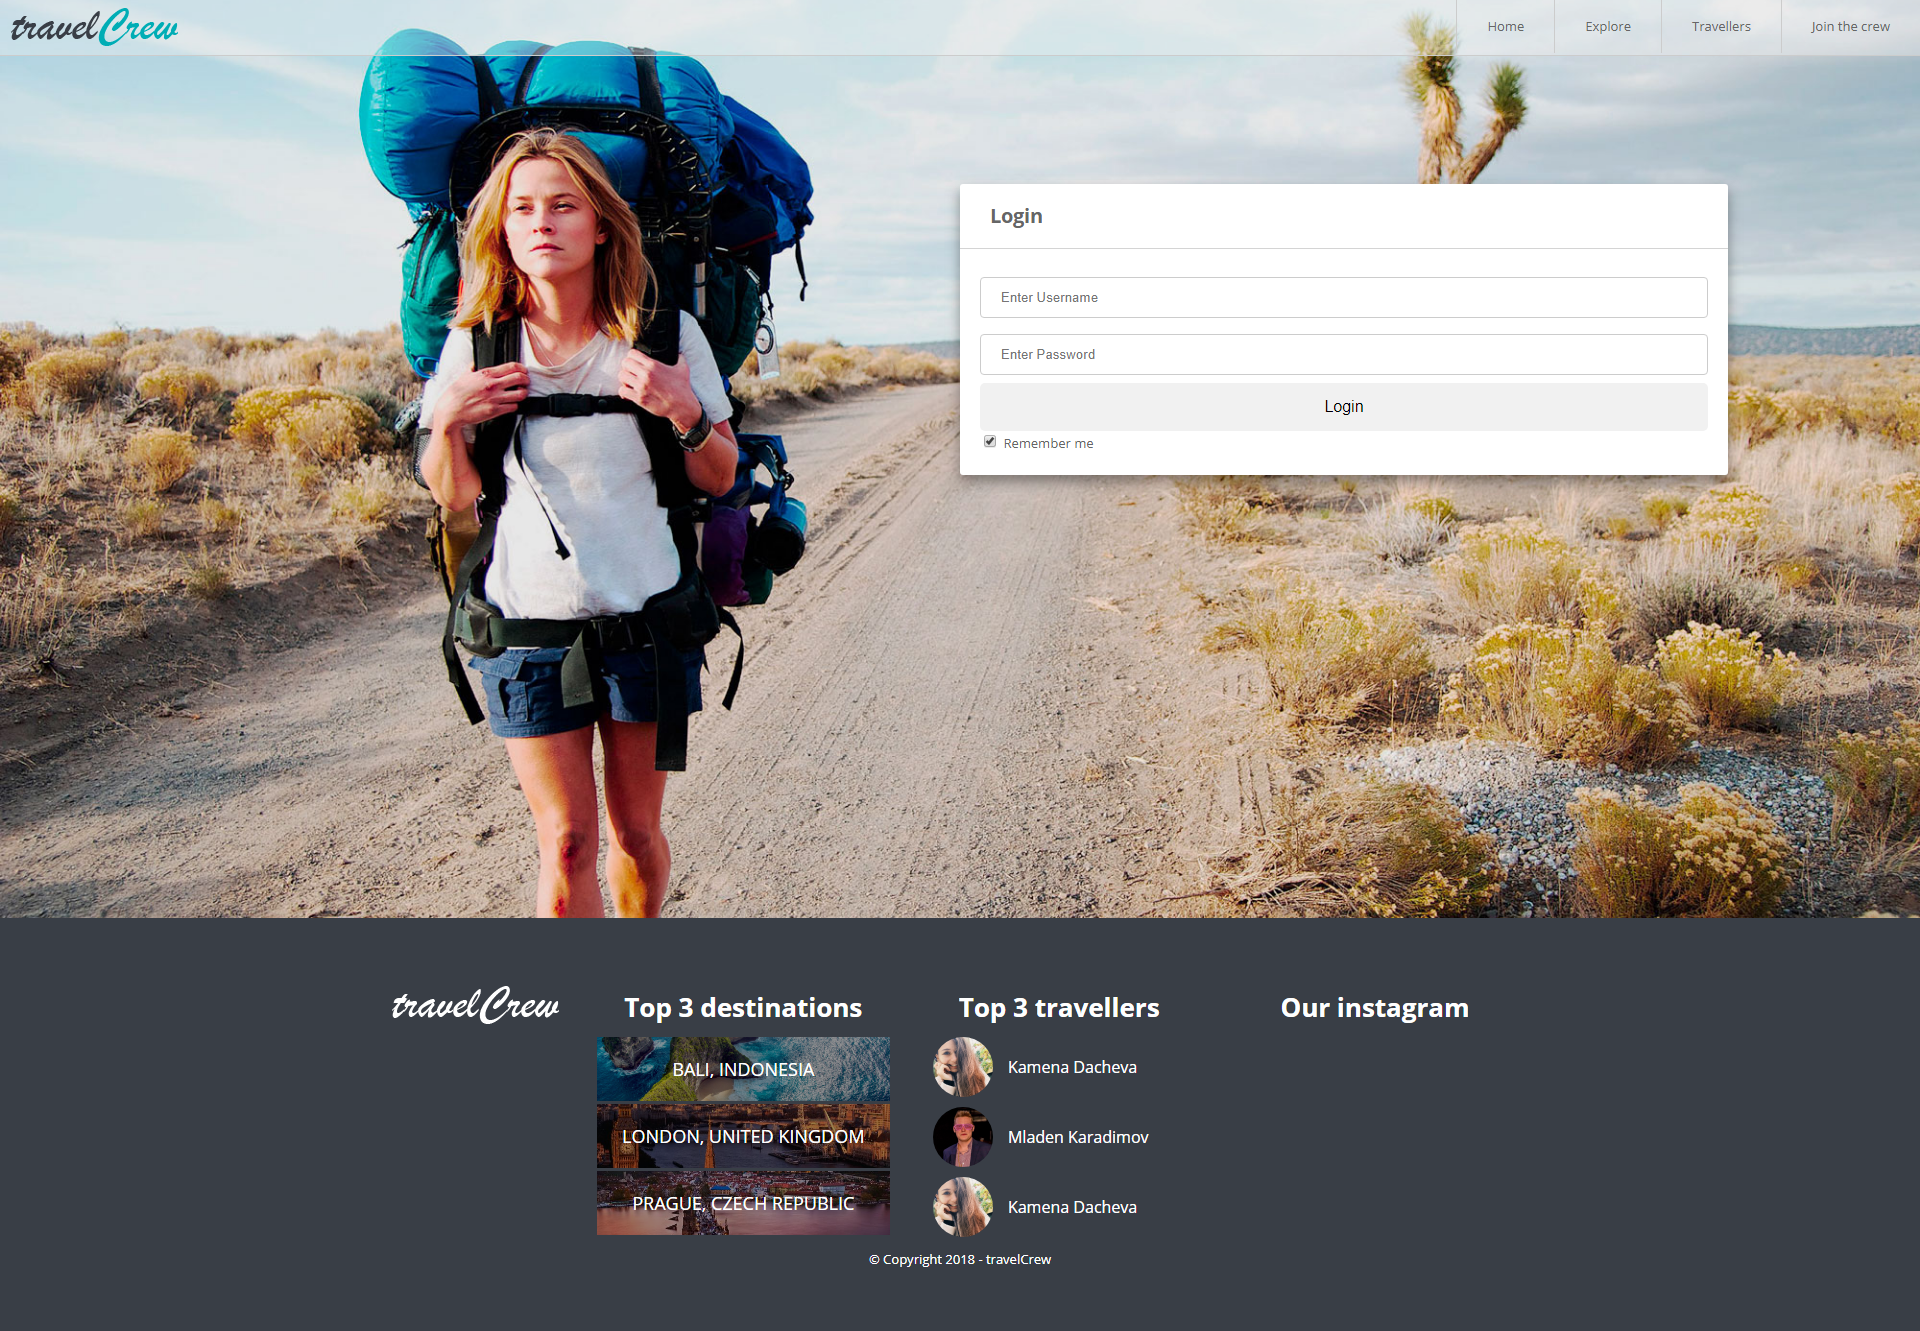
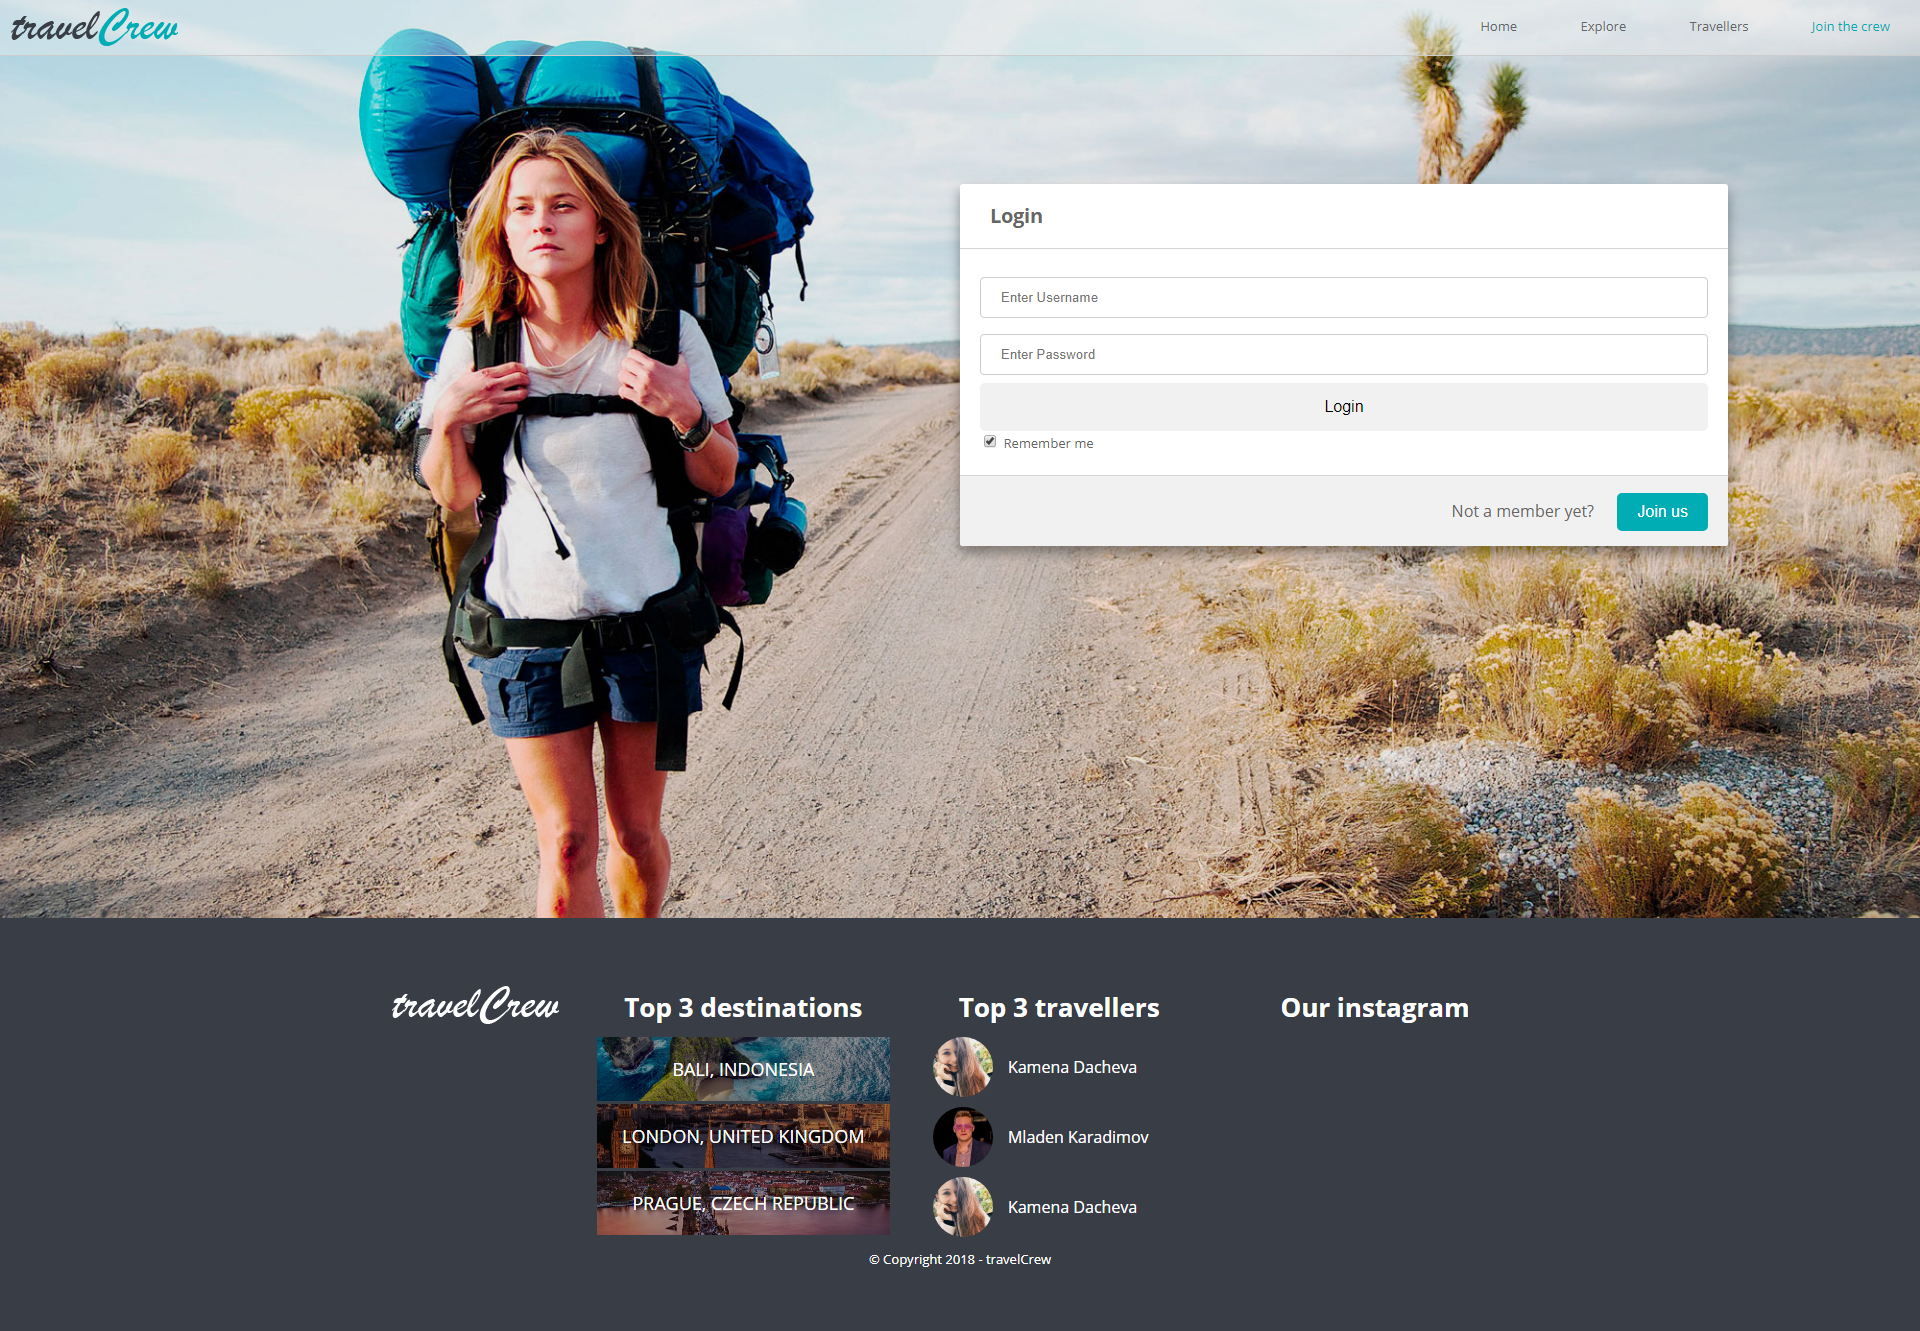
Update the header and the login/register page

Changed region(s): [[0.5, 0.3388, 0.9062, 0.4313], [0.875, 0.0, 0.9062, 0.0308], [0.8125, 0.0, 0.8438, 0.0308]]

diff --git a/login.html b/login.html
@@ -26,7 +26,7 @@
 						<li><a href="index.html">Home</a></li>
 						<li><a href="explore.html">Explore</a></li>
 						<li><a href="travellers.html">Travellers</a></li>
-						<li><a href="login.html">Join the crew</a></li>
+						<li class="active"><a href="login.html">Join the crew</a></li>
 					</ul>
 				</div>
 			</div>
@@ -37,15 +37,34 @@
 		<section class="full-screen">
 			<div class="background-image-holder" style="background: url(&quot;img/2.jpg&quot;);">
                 <img alt="image" class="background-image" src="img/2.jpg" style="display: none;">
-	            	<div class="login-form">
+	            	<div class="login-register-form" id="login-form">
 	            		<h1>Login</h1>
-		                <form action="/action_page.php">
+		                <form id="login-form" action="/action_page.php">
 						    <input id="username" type="text" placeholder="Enter Username" name="uname" required>
 						    <input id="password" type="password" placeholder="Enter Password" name="psw" required>
 						        
 						    <button type="submit">Login</button>
 						    <input type="checkbox" checked="checked"> Remember me
 						</form>
+						<div class="form-bottom">
+							<p>Not a member yet?</p>
+							<button class="light-blue" id="register-form-link">Join us</button>
+						</div>
+					</div>
+					<div class="login-register-form" id="register-form">
+	            		<h1>Register</h1>
+		                <form id="register-form" action="/action_page.php">
+						    <input id="username" type="text" placeholder="Enter Username" name="uname" required>
+						    <input id="name" type="text" placeholder="Enter Name" name="name" required>
+						    <input id="email" type="email" placeholder="Enter E-mail" name="email" required>
+						    <input id="password" type="password" placeholder="Enter Password" name="psw" required>
+						        
+						    <button type="submit">Register</button>
+						</form>
+						<div class="form-bottom">
+							<p>Already a member?</p>
+							<button class="light-blue" id="login-form-link">Log in</button>
+						</div>
 					</div>
             </div>
 		</section>

diff --git a/css/style.css b/css/style.css
@@ -38,8 +38,8 @@ p {
 .nav-bar {
 	height: 55px;
 	max-height: 55px;
-    border-bottom: 1px solid #ccc;
-    background-color: rgba(241,241,241, 0.4);
+  border-bottom: 1px solid #ccc;
+  background-color: rgba(241,241,241, 0.4);
 }
 
 .nav-bar .nav-left {
@@ -60,12 +60,19 @@ ul.menu {
 ul.menu li {
     display: inline-block;
     padding: 0 30px;
-    border-left: 1px solid #ccc;
 }
 
-ul.menu li:hover {
-	opacity: 1;
-	background-color: #f1f1f1;
+ul.menu li.active a {
+  color: #00adb5;
+}
+
+ul.menu li a {
+  transition: color 0.4s ease 0s;
+}
+
+ul.menu li:hover a {
+	color: #00adb5;
+  transition: color 0.4s ease 0s;
 }
 
 nav .menu-toggle {
@@ -429,7 +436,11 @@ button.dark {
 
 
 /*=====FORM=====*/
-.login-form {
+.login-register-form#register-form {
+  display: none;
+}
+
+.login-register-form {
   position: relative;
   left: 50%;
   top: 20%;
@@ -441,21 +452,21 @@ button.dark {
   border-radius: 10px;*/
 }
 
-.login-form h1 {
+.login-register-form h1 {
   border-bottom: 1px solid #D4D4D4;
   padding: 20px 30px;
   margin: 0;
 }
 
-.login-form form {
+.login-register-form form {
   padding: 20px;
 }
 
-.login-form button {
+.login-register-form button {
   width: 100%;
 }
 
-input[type=text], select, input[type=password] {
+input[type=text], select, input[type=password], input[type=email] {
   width: 100%;
   padding: 12px 20px;
   margin: 8px 0;
@@ -466,13 +477,32 @@ input[type=text], select, input[type=password] {
 }
 
 @media only screen and (max-width:500px) {
-  .login-form {
+  .login-register-form {
     left: auto;
     width: 100%;
   }
 }
 
+.form-bottom {
+  text-align: right;
+  padding: 5px 20px;
+  border-top: 1px solid #D4D4D4;
+  background-color: #f1f1f1;
+  border-bottom-left-radius: 3px;
+  border-bottom-right-radius: 3px;
+}
 
+.form-bottom p {
+  display: inline-block;
+  padding-right: 20px;
+}
+
+.form-bottom button {
+  cursor: pointer;
+  width: auto;
+  color: #fff;
+  padding: 10px 20px;
+}
 
 
 /*=====FOOTER=====*/

diff --git a/index.html b/index.html
@@ -24,10 +24,10 @@
 				<button class="menu-toggle" id="menu-toggle"><img src="img/menu-icon.png"></button>
 				<div class="nav-right" id="top-nav">
 					<ul class="menu">
-						<li><a href="index.html">Home</a></li>
-						<li><a href="explore.html">Explore</a></li>
-						<li><a href="travellers.html">Travellers</a></li>
-						<li><a href="login.html">Join the crew</a></li>
+						<li class="active"><a href="index.html" title="home">Home</a></li>
+						<li><a href="explore.html" title="explore">Explore</a></li>
+						<li><a href="travellers.html" title="travellers">Travellers</a></li>
+						<li><a href="login.html" title="join">Join the crew</a></li>
 					</ul>
 				</div>
 			</div>

diff --git a/js/script.js b/js/script.js
@@ -42,4 +42,16 @@ jQuery(document).ready(function () {
 	    }
 	};
 
+    jQuery('#login-form-link').click(function(e) {
+		jQuery("#login-form").delay(100).fadeIn(100);
+ 		jQuery("#register-form").fadeOut(100);
+		e.preventDefault();
+	});
+
+	jQuery('#register-form-link').click(function(e) {
+		jQuery("#register-form").delay(100).fadeIn(100);
+ 		jQuery("#login-form").fadeOut(100);
+		e.preventDefault();
+	});
+
 });

diff --git a/explore.html b/explore.html
@@ -24,7 +24,7 @@
 				<div class="nav-right" id="top-nav">
 					<ul class="menu">
 						<li><a href="index.html">Home</a></li>
-						<li><a href="explore.html">Explore</a></li>
+						<li class="active"><a href="explore.html">Explore</a></li>
 						<li><a href="travellers.html">Travellers</a></li>
 						<li><a href="login.html">Join the crew</a></li>
 					</ul>
